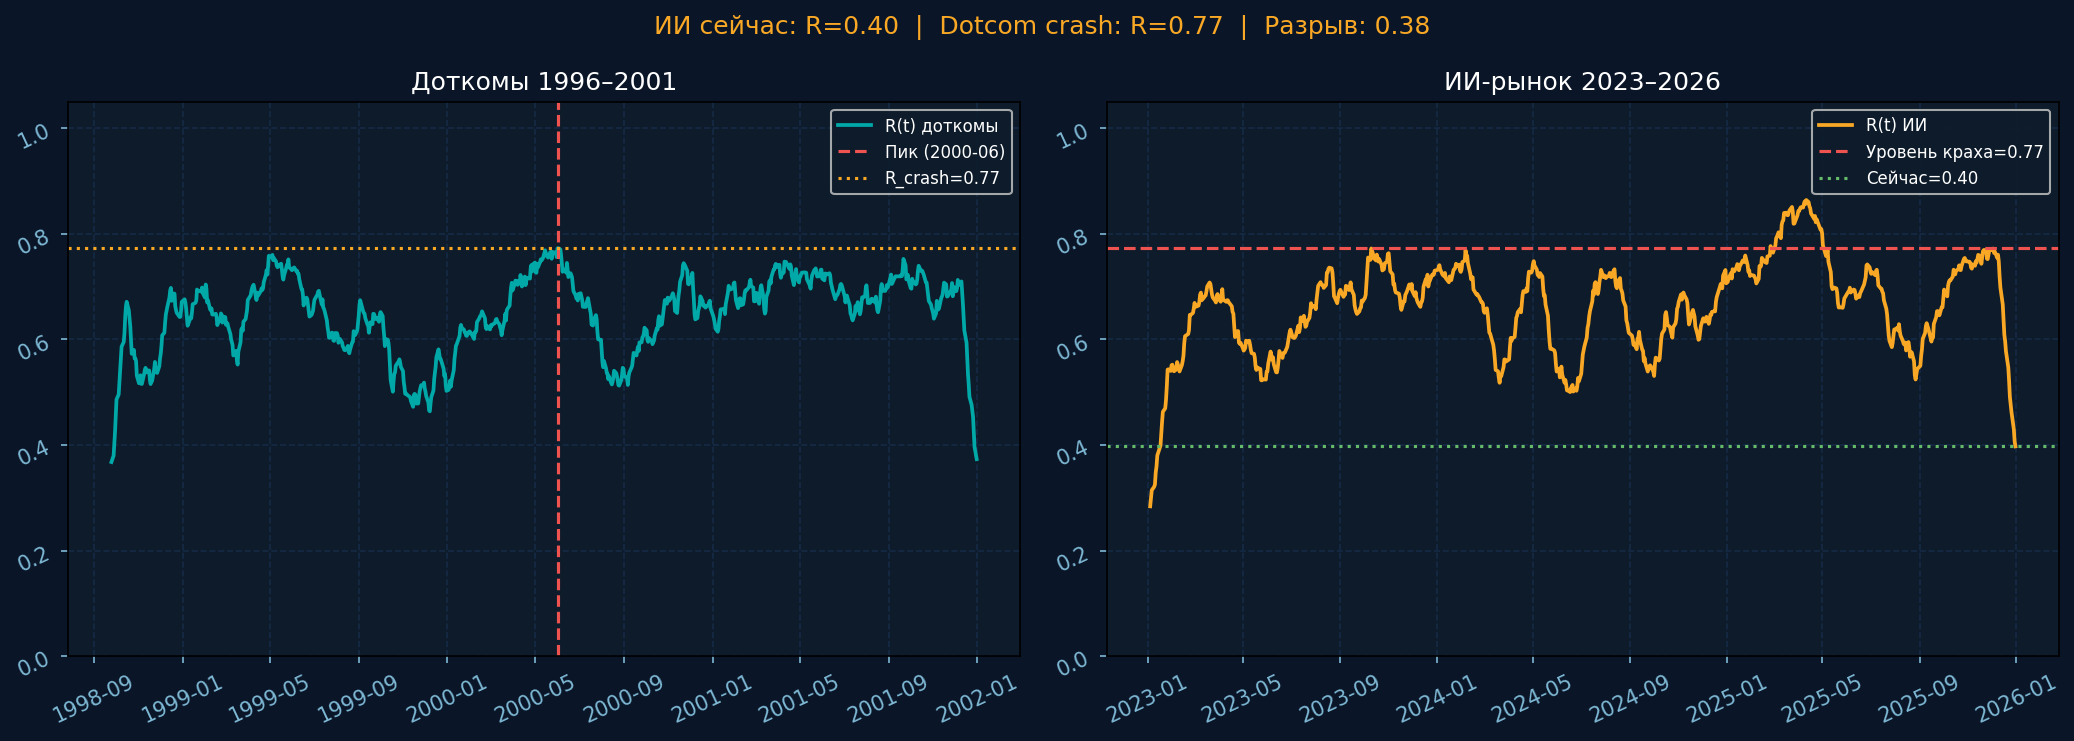
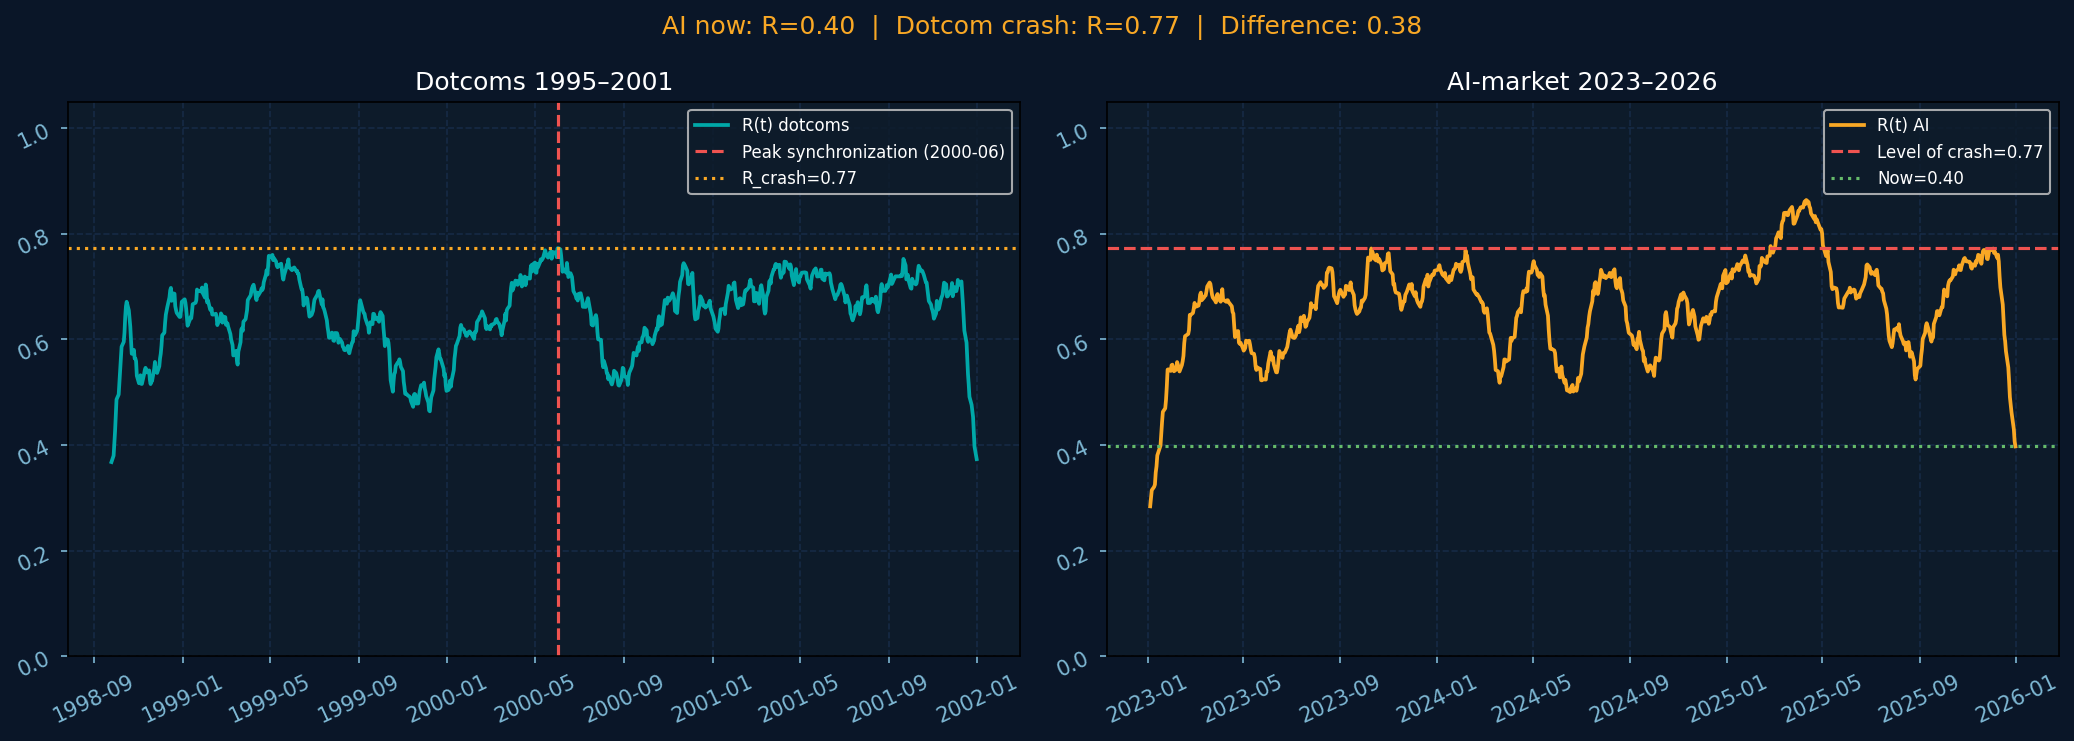
Add project description and code comments

diff --git a/kuramoto_real_date.py b/kuramoto_real_date.py
@@ -5,19 +5,19 @@ import yfinance as yf
 def R(tickers, start, end):
     P = yf.download(tickers, start=start, end=end, auto_adjust=True, progress=False)["Close"]
     P = P.ffill().dropna(axis=1, how="all").dropna()
-    print(f"  Используются: {list(P.columns)}  ({len(P)} дней)")
+    print(f"  Using: {list(P.columns)}  ({len(P)} days)")
     if P.empty or P.shape[1] < 2:
-        raise ValueError("Слишком мало данных — проверь тикеры или даты")
+        raise ValueError("Too little data — check tickers or dates")
     ret = np.diff(np.log(P.values), axis=0)
     phases = np.array([np.unwrap(np.angle(hilbert(r - np.convolve(r, np.ones(60)/60, 'same')))) for r in ret.T]).T
     return P.index[1:], np.abs(np.mean(np.exp(1j * phases), axis=1))
 
 S = lambda x: np.convolve(x, np.ones(30)/30, 'same')
 
-print("Загружаем доткомы (1996–2002)...")
+print("Downloading dotcoms (1995–2001)...")
 d_idx, Rd = R(["AMZN","EBAY","CSCO","INTC","ORCL","MSFT","DELL","AMAT"], "1996-01-01", "2002-01-01")
 
-print("Загружаем ИИ-рынок (2023–сейчас)...")
+print("Downloading AI-market (2023–now)...")
 a_idx, Ra = R(["PLTR","AI","SOUN","BBAI","SMCI"], "2023-01-01", "2026-01-01")
 
 Rd, Ra = S(Rd), S(Ra)
@@ -28,17 +28,17 @@ for ax in (ax1, ax2):
     ax.set_facecolor("#0D1B2A"); ax.tick_params(colors="#7EB8D4", rotation=25)
     ax.grid(color="#1E3A5F", ls="--", alpha=0.5)
 
-ax1.plot(d_idx, Rd, color="#00A8A8", lw=1.8, label="R(t) доткомы")
-ax1.axvline(d_idx[crash], color="#EF5350", ls="--", label=f"Пик ({d_idx[crash].strftime('%Y-%m')})")
+ax1.plot(d_idx, Rd, color="#00A8A8", lw=1.8, label="R(t) dotcoms")
+ax1.axvline(d_idx[crash], color="#EF5350", ls="--", label=f"Peak synchronization ({d_idx[crash].strftime('%Y-%m')})")
 ax1.axhline(Rd[crash], color="#F9A825", ls=":", label=f"R_crash={Rd[crash]:.2f}")
-ax1.set(title="Доткомы 1996–2001", ylim=(0,1.05)); ax1.set_title(ax1.get_title(), color="white")
+ax1.set(title="Dotcoms 1995–2001", ylim=(0,1.05)); ax1.set_title(ax1.get_title(), color="white")
 ax1.legend(fontsize=8, facecolor="#0D1B2A", labelcolor="white")
 
-ax2.plot(a_idx, Ra, color="#F9A825", lw=1.8, label="R(t) ИИ")
-ax2.axhline(Rd[crash], color="#EF5350", ls="--", label=f"Уровень краха={Rd[crash]:.2f}")
-ax2.axhline(Ra[-1], color="#66BB6A", ls=":", label=f"Сейчас={Ra[-1]:.2f}")
-ax2.set(title="ИИ-рынок 2023–2026", ylim=(0,1.05)); ax2.set_title(ax2.get_title(), color="white")
+ax2.plot(a_idx, Ra, color="#F9A825", lw=1.8, label="R(t) AI")
+ax2.axhline(Rd[crash], color="#EF5350", ls="--", label=f"Level of crash={Rd[crash]:.2f}")
+ax2.axhline(Ra[-1], color="#66BB6A", ls=":", label=f"Now={Ra[-1]:.2f}")
+ax2.set(title="AI-market 2023–2026", ylim=(0,1.05)); ax2.set_title(ax2.get_title(), color="white")
 ax2.legend(fontsize=8, facecolor="#0D1B2A", labelcolor="white")
 
-fig.suptitle(f"ИИ сейчас: R={Ra[-1]:.2f}  |  Dotcom crash: R={Rd[crash]:.2f}  |  Разрыв: {Rd[crash]-Ra[-1]:.2f}", color="#F9A825")
+fig.suptitle(f"AI now: R={Ra[-1]:.2f}  |  Dotcom crash: R={Rd[crash]:.2f}  |  Difference: {Rd[crash]-Ra[-1]:.2f}", color="#F9A825")
 plt.tight_layout(); plt.savefig("kuramoto_real.png", dpi=150, bbox_inches="tight", facecolor="#0A1628"); plt.show()

diff --git a/kuramoto.py b/kuramoto.py
@@ -1,6 +1,19 @@
 import numpy as np, matplotlib.pyplot as plt
 from scipy.signal import hilbert
 
+# =============================================================
+# KURAMOTO SYNCHRONIZATION MODEL — FINANCIAL BUBBLE DETECTOR
+# =============================================================
+
+# --- Function 1: Generate synthetic data ---
+# Historical data on dot-com era companies that went bankrupt
+# is not publicly available, so we generate realistic synthetic data.
+# AI giants are excluded — they had diversified revenue streams
+# and did not follow the typical bubble pattern.
+# Each company grows by 0.05% daily under calm conditions.
+# Hype: prices spike when a product gains public attention.
+# Crash: prices collapse when the bubble bursts.
+
 def make(n, T, peak, crash=True, seed=42):
     rng = np.random.default_rng(seed)
     P, d = np.ones((T, n)) * rng.uniform(5,50,n), rng.normal(5e-4,8e-4,n)
@@ -11,15 +24,29 @@ def make(n, T, peak, crash=True, seed=42):
         P[t] = P[t-1] * np.exp(d + h*0.6 + rng.normal(0,0.02,n) + c)
     return P
 
+# --- Function 2: Kuramoto order parameter R ---
+# Measures the degree of synchronization between companies (0 to 1).
+# R = 0 → companies move independently
+# R = 1 → companies are fully synchronized (herd effect)
+# We take daily log-returns and calculate phase synchronization
+# using the Hilbert transform.
+
 def R(P):
     r = np.diff(np.log(P), axis=0)
     ph = np.array([np.unwrap(np.angle(hilbert(x - np.convolve(x,np.ones(60)/60,'same')))) for x in r.T]).T
     return np.abs(np.mean(np.exp(1j*ph), axis=1))
 
+# --- Function 3: Smoothing ---
+# Removes noise by averaging over a 30-day window.
+
 S  = lambda x: np.convolve(x, np.ones(30)/30, 'same')
 
 Rd = S(R(make(8, 1500, 1280)))
 Ra = S(R(make(9,  800,  600, crash=False, seed=99)))
+
+# --- Detect synchronization peak ---
+# Find the day when dot-com companies reached maximum synchronization —
+# the transition point from independent behaviour to herd effect.
 
 c = Rd[:int(len(Rd)*0.9)].argmax()
 
